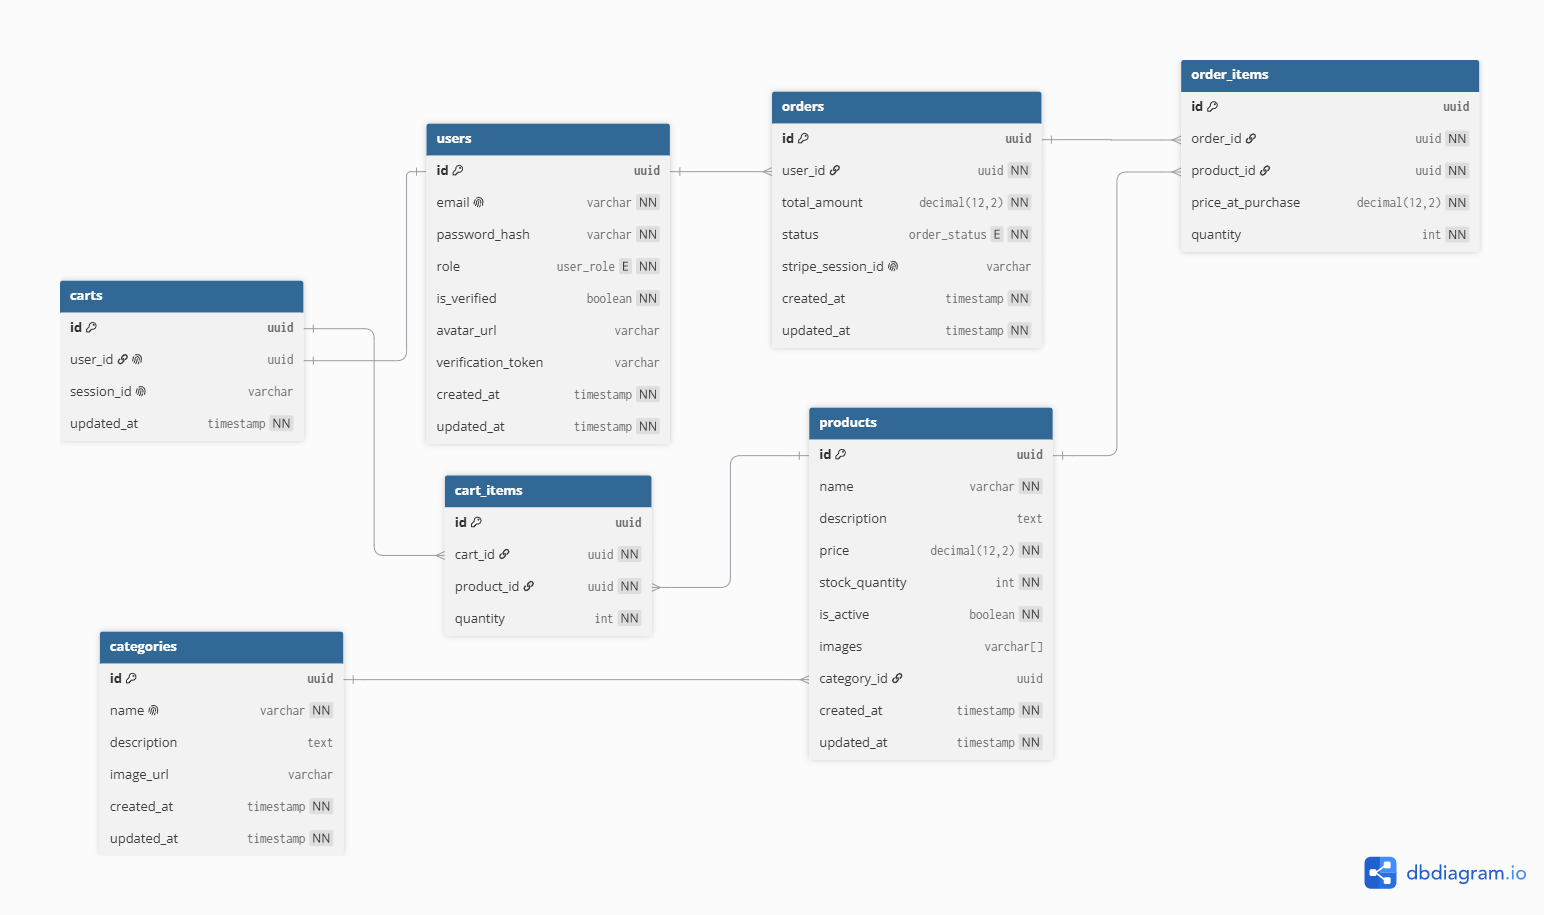
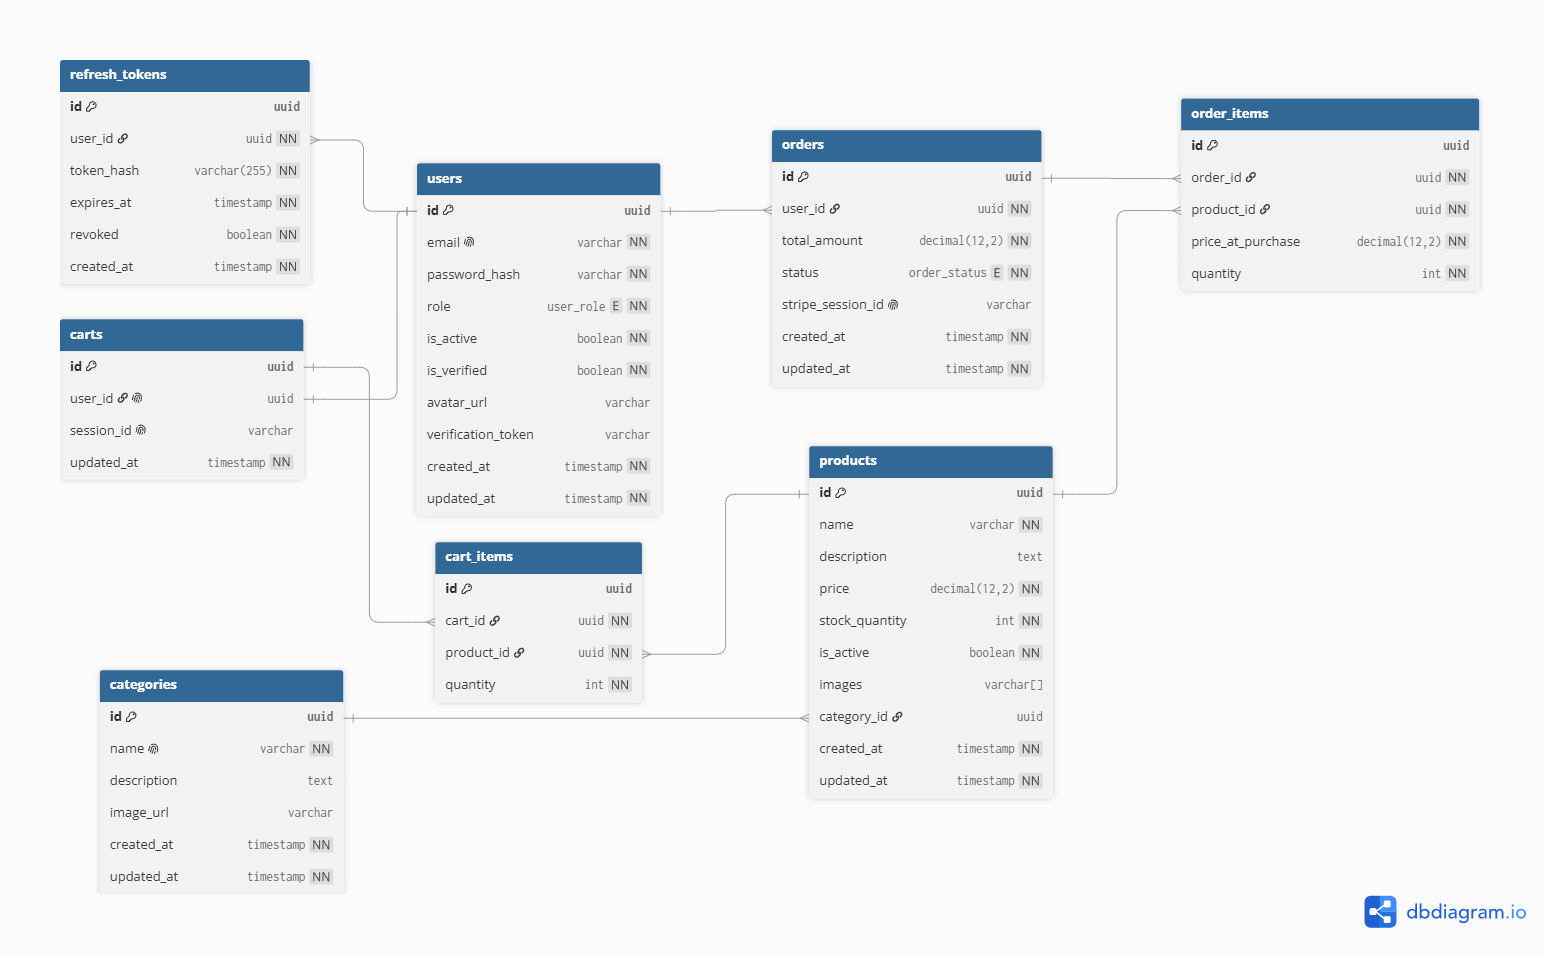
fix(auth): implement stateful refresh tokens and strict active user validation

diff --git a/server/controllers/auth.controller.js b/server/controllers/auth.controller.js
@@ -2,7 +2,7 @@ import { PrismaClient } from '@prisma/client';
 import bcrypt from 'bcrypt';
 import jwt from 'jsonwebtoken';
 import crypto from 'node:crypto';
-import { generateTokens } from '../utils/token.js';
+import { generateTokens, generateAccessToken } from '../utils/token.js';
 import prisma from '../utils/prisma.js';
 
 // const prisma = new PrismaClient();
@@ -12,7 +12,7 @@ const EMAIL_REGEX = /^[^\s@]+@[^\s@]+\.[^\s@]+$/;
 const MIN_PASSWORD_LENGTH = 8;
 const MAX_PASSWORD_LENGTH = 72;
 
-export const register = async (req, res) => {
+export const register = async (req, res, next) => {
     try {
         const { email, password } = req.body;
 
@@ -49,11 +49,11 @@ export const register = async (req, res) => {
 
         return res.status(201).json({ message: 'Đăng ký thành công!', user });
     } catch (error) {
-        return res.status(500).json({ message: 'Lỗi máy chủ', error: error.message });
+        next(error);
     }
 };
 
-export const login = async (req, res) => {
+export const login = async (req, res, next) => {
     try {
         const { email, password } = req.body;
         const normalizedEmail = String(email || '').trim().toLowerCase();
@@ -76,6 +76,16 @@ export const login = async (req, res) => {
 
         const { accessToken, refreshToken } = generateTokens(user);
 
+        // Băm SHA-256 và lưu Refresh Token vào Database
+        const tokenHash = crypto.createHash('sha256').update(refreshToken).digest('hex');
+        await prisma.refreshToken.create({
+            data: {
+                user_id: user.id,
+                token_hash: tokenHash,
+                expires_at: new Date(Date.now() + 7 * 86400000),
+            },
+        });
+
         res.cookie('refreshToken', refreshToken, {
             httpOnly: true,
             secure: process.env.NODE_ENV === 'production',
@@ -91,11 +101,11 @@ export const login = async (req, res) => {
             role: user.role,
         });
     } catch (error) {
-        return res.status(500).json({ message: 'Lỗi máy chủ', error: error.message });
+        next(error);
     }
 };
 
-export const changePassword = async (req, res) => {
+export const changePassword = async (req, res, next) => {
     try {
         const { currentPassword, newPassword } = req.body;
 
@@ -130,53 +140,85 @@ export const changePassword = async (req, res) => {
 
         return res.status(200).json({ message: 'Đổi mật khẩu thành công!' });
     } catch (error) {
-        return res.status(500).json({ message: 'Lỗi máy chủ', error: error.message });
+        next(error);
     }
 };
 
-export const refreshToken = async (req, res) => {
-    const refreshTokenValue = req.cookies?.refreshToken;
+export const refreshToken = async (req, res, next) => {
+    try {
+        const refreshTokenValue = req.cookies?.refreshToken;
 
-    if (!refreshTokenValue) {
-        return res.status(401).json({ message: 'Không tìm thấy phiên đăng nhập trong Cookie!' });
-    }
-
-    jwt.verify(refreshTokenValue, process.env.REFRESH_TOKEN_SECRET, async (err, decodedPayload) => {
-        if (err) {
-            return res.status(403).json({ message: 'Phiên đăng nhập đã hết hạn hoặc không hợp lệ!' });
+        if (!refreshTokenValue) {
+            return res.status(401).json({ message: 'Không tìm thấy phiên đăng nhập trong Cookie!' });
         }
 
+        const cookieOptions = {
+            httpOnly: true,
+            sameSite: 'strict',
+            secure: process.env.NODE_ENV === 'production',
+        };
+
+        // 1. Kiểm tra chữ ký và hạn của JWT trước
         try {
-            const user = await prisma.user.findUnique({ where: { id: decodedPayload.sub } });
-
-            if (!user) {
-                return res.status(404).json({ message: 'Người dùng không tồn tại!' });
+            jwt.verify(refreshTokenValue, process.env.REFRESH_TOKEN_SECRET);
+        } catch (err) {
+            if (err.name === 'TokenExpiredError' || err.name === 'JsonWebTokenError') {
+                res.clearCookie('refreshToken', cookieOptions);
+                return res.status(401).json({ message: 'Phiên đăng nhập đã hết hạn hoặc không hợp lệ!' });
             }
-
-            if (!user.is_active) {
-                return res.status(403).json({ message: 'Tài khoản của bạn đã bị vô hiệu hóa!' });
-            }
-
-            const newAccessToken = jwt.sign(
-                { sub: user.id, role: user.role },
-                process.env.ACCESS_TOKEN_SECRET,
-                { expiresIn: '15m' }
-            );
-
-            return res.status(200).json({ accessToken: newAccessToken });
+            throw err;
         }
-        catch (error) {
-            return res.status(500).json({ message: 'Lỗi máy chủ', error: error.message });
+
+        // 2. Băm SHA-256 và tìm trong DB
+        const tokenHash = crypto.createHash('sha256').update(refreshTokenValue).digest('hex');
+        const storedToken = await prisma.refreshToken.findFirst({
+            where: { token_hash: tokenHash },
+            include: { user: true },
+        });
+
+        // 3. Kiểm tra các điều kiện thu hồi / không hợp lệ
+        if (!storedToken || storedToken.revoked) {
+            res.clearCookie('refreshToken', cookieOptions);
+            return res.status(403).json({ message: 'Phiên đăng nhập không hợp lệ hoặc đã bị thu hồi!' });
         }
-    });
+
+        if (!storedToken.user || !storedToken.user.is_active) {
+            await prisma.refreshToken.update({
+                where: { id: storedToken.id },
+                data: { revoked: true },
+            });
+            res.clearCookie('refreshToken', cookieOptions);
+            return res.status(403).json({ message: 'Tài khoản của bạn đã bị vô hiệu hóa!' });
+        }
+
+        // 4. Cấp Access Token mới
+        const newAccessToken = generateAccessToken(storedToken.user);
+
+        return res.status(200).json({ accessToken: newAccessToken });
+    } catch (error) {
+        next(error);
+    }
 };
 
-export const logout = async (req, res) => {
-    res.clearCookie('refreshToken', {
-        httpOnly: true,
-        sameSite: 'strict',
-        secure: process.env.NODE_ENV === 'production',
-    });
+export const logout = async (req, res, next) => {
+    try {
+        const refreshTokenValue = req.cookies?.refreshToken;
+        if (refreshTokenValue) {
+            const tokenHash = crypto.createHash('sha256').update(refreshTokenValue).digest('hex');
+            await prisma.refreshToken.updateMany({
+                where: { token_hash: tokenHash, revoked: false },
+                data: { revoked: true },
+            });
+        }
 
-    return res.status(200).json({ message: 'Đăng xuất thành công!' });
+        res.clearCookie('refreshToken', {
+            httpOnly: true,
+            sameSite: 'strict',
+            secure: process.env.NODE_ENV === 'production',
+        });
+
+        return res.status(200).json({ message: 'Đăng xuất thành công!' });
+    } catch (error) {
+        next(error);
+    }
 };

diff --git a/server/middlewares/auth.middleware.js b/server/middlewares/auth.middleware.js
@@ -1,4 +1,5 @@
 import jwt from 'jsonwebtoken';
+import prisma from '../utils/prisma.js';
 
 export const verifyToken = (req, res, next) => {
     const authHeader = req.headers.authorization;
@@ -15,6 +16,33 @@ export const verifyToken = (req, res, next) => {
         req.user = decodedPayload;
         next();
     });
+};
+
+export const verifyActiveUser = async (req, res, next) => {
+    try {
+        // Đảm bảo req.user đã được gán từ middleware verifyToken chạy trước đó
+        if (!req.user || !req.user.sub) {
+            return res.status(401).json({ message: 'Không tìm thấy thông tin xác thực' });
+        }
+
+        // Truy vấn DB qua khóa chính (rất nhanh)
+        const user = await prisma.user.findUnique({
+            where: { id: req.user.sub },
+            select: { is_active: true, role: true },
+        });
+
+        // Chặn nếu user không tồn tại hoặc đã bị khóa
+        if (!user || !user.is_active) {
+            return res.status(403).json({ message: 'Tài khoản của bạn đã bị vô hiệu hóa!' });
+        }
+
+        // Cập nhật lại role mới nhất từ DB vào req (phòng khi Admin vừa đổi quyền của user)
+        req.user.role = user.role;
+        
+        next();
+    } catch (error) {
+        next(error); // Đẩy lỗi 500 về cho Global Error Handler xử lý
+    }
 };
 
 export const verifyAdmin = (req, res, next) => {

diff --git a/server/routes/product.routes.js b/server/routes/product.routes.js
@@ -1,6 +1,6 @@
 import { Router } from 'express';
 import { getAllProducts, getProductById, createProduct, updateProduct, deleteProduct } from '../controllers/product.controller.js';
-import { verifyToken, verifyAdmin } from '../middlewares/auth.middleware.js';
+import { verifyToken, verifyActiveUser, verifyAdmin } from '../middlewares/auth.middleware.js';
 import { optionalAuth } from '../middlewares/optionalAuth.js';
 
 const router = Router();
@@ -8,7 +8,7 @@ const router = Router();
 router.get('/', optionalAuth, getAllProducts);
 router.get('/:productId', optionalAuth, getProductById);
 
-router.use(verifyToken, verifyAdmin);
+router.use(verifyToken, verifyActiveUser, verifyAdmin);
 router.post('/', createProduct);
 router.patch('/:productId', updateProduct);
 router.delete('/:productId', deleteProduct);

diff --git a/server/routes/auth.routes.js b/server/routes/auth.routes.js
@@ -1,6 +1,6 @@
 import { Router } from 'express';
 import { register, login, changePassword, refreshToken, logout } from '../controllers/auth.controller.js';
-import { verifyToken } from '../middlewares/auth.middleware.js';
+import { verifyToken, verifyActiveUser } from '../middlewares/auth.middleware.js';
 import rateLimit from 'express-rate-limit';
 
 const router = Router();
@@ -21,7 +21,7 @@ const refreshLimiter = rateLimit({
 
 router.post('/register', authLimiter, register);
 router.post('/login', authLimiter, login);
-router.patch('/change-password', verifyToken, changePassword);
+router.patch('/change-password', verifyToken, verifyActiveUser, changePassword);
 router.post('/refresh-token', refreshLimiter, refreshToken);
 router.post('/logout', verifyToken, logout);
 

diff --git a/server/routes/category.routes.js b/server/routes/category.routes.js
@@ -1,13 +1,13 @@
 import { Router } from 'express';
 import { createCategory, getAllCategories, getCategoryById, updateCategory, deleteCategory } from '../controllers/category.controller.js';
-import { verifyToken, verifyAdmin } from '../middlewares/auth.middleware.js';
+import { verifyToken, verifyActiveUser, verifyAdmin } from '../middlewares/auth.middleware.js';
 
 const router = Router();
 
 router.get('/', getAllCategories);
 router.get('/:categoryId', getCategoryById);
 
-router.use(verifyToken, verifyAdmin);
+router.use(verifyToken, verifyActiveUser, verifyAdmin);
 router.post('/', createCategory);
 router.patch('/:categoryId', updateCategory);
 router.delete('/:categoryId', deleteCategory);

diff --git a/server/routes/user.routes.js b/server/routes/user.routes.js
@@ -1,10 +1,10 @@
 import { Router } from 'express';
 import { getAllUsers, getMe, getUserById, updateMe, updateUser, toggleUserStatus } from '../controllers/user.controller.js';
 import { checkOwner } from '../middlewares/checkOwner.js';
-import { verifyToken, verifyAdmin } from '../middlewares/auth.middleware.js';
+import { verifyToken, verifyActiveUser, verifyAdmin } from '../middlewares/auth.middleware.js';
 
 const router = Router();
-router.use(verifyToken);
+router.use(verifyToken, verifyActiveUser);
 
 router.get('/', verifyAdmin, getAllUsers);
 router.get('/me', getMe);

diff --git a/server/routes/order.routes.js b/server/routes/order.routes.js
@@ -1,9 +1,9 @@
 import { Router } from 'express';
 import { createOrder, getMyOrders, getAllOrders, getOrderById, updateOrderStatus, deleteOrder } from '../controllers/order.controller.js';
-import { verifyToken, verifyAdmin } from '../middlewares/auth.middleware.js';
+import { verifyToken, verifyActiveUser, verifyAdmin } from '../middlewares/auth.middleware.js';
 
 const router = Router();
-router.use(verifyToken);
+router.use(verifyToken, verifyActiveUser);
 
 router.post('/', createOrder);
 router.get('/', verifyAdmin, getAllOrders);

diff --git a/server/routes/analytics.routes.js b/server/routes/analytics.routes.js
@@ -1,10 +1,10 @@
 import { Router } from 'express';
 import { getTotalSales, getTotalOrders } from '../controllers/analytics.controller.js';
-import { verifyToken, verifyAdmin } from '../middlewares/auth.middleware.js';
+import { verifyToken, verifyActiveUser, verifyAdmin } from '../middlewares/auth.middleware.js';
 
 const router = Router();
 
-router.use(verifyToken, verifyAdmin);
+router.use(verifyToken, verifyActiveUser, verifyAdmin);
 
 router.get('/total-sales', getTotalSales);
 router.get('/total-orders', getTotalOrders);

diff --git a/server/routes/cart.routes.js b/server/routes/cart.routes.js
@@ -1,10 +1,10 @@
 import { Router } from "express";
 import { getCart, addItemToCart, updateCartItem, removeCartItem, clearCart, syncCart } from "../controllers/cart.controller.js";
-import { verifyToken } from "../middlewares/auth.middleware.js";
+import { verifyToken, verifyActiveUser } from "../middlewares/auth.middleware.js";
 
 const router = Router();
 
-router.use(verifyToken);
+router.use(verifyToken, verifyActiveUser);
 
 router.get('/', getCart);
 router.post('/items', addItemToCart);

diff --git a/server/utils/token.js b/server/utils/token.js
@@ -10,3 +10,12 @@ export const generateTokens = (user) => {
     const refreshToken = jwt.sign(payload, process.env.REFRESH_TOKEN_SECRET, { expiresIn: '7d' });
     return { accessToken, refreshToken };
 };
+
+export const generateAccessToken = (user) => {
+    const payload = {
+        sub: user.id,
+        role: String(user.role || 'CUSTOMER').toUpperCase(),
+    };
+
+    return jwt.sign(payload, process.env.ACCESS_TOKEN_SECRET, { expiresIn: '15m' });
+};
